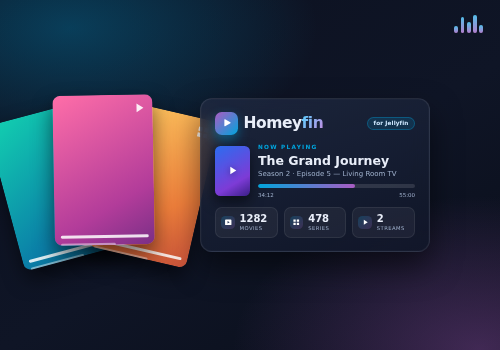
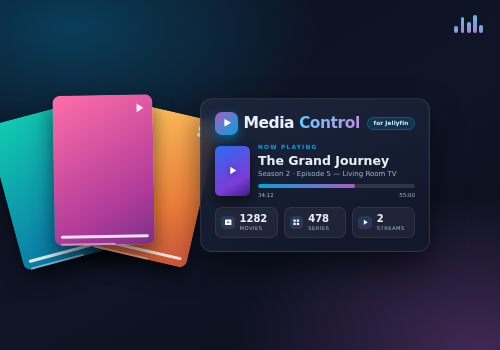
Rename app to "Media Control for Jellyfin"
- App name "Homeyfin" contained "Homey", which the Homey App Store forbids
  in app names. Renamed to "Media Control for Jellyfin" (de:
  "Mediensteuerung für Jellyfin").
- The "… for Jellyfin" affix is explicitly permitted by Jellyfin's branding
  guidelines for unofficial third-party apps; the app already ships its own
  logo (not the Jellyfin logo) and an unofficial disclaimer, and no longer
  uses a "homey"-containing id.
- App id changed to com.frlrnzn.mediacontrol (removes "homey"); package name
  updated to match. Safe to change while still in development / unpublished.
- Hero store image wordmark and README.txt updated to the new name.

Build (tsc) and the test suite pass.

Claude-Session: https://claude.ai/code/session_01De5EX5SXA9xkDUCZHhDnE1

Changed region(s): [[0.48, 0.3143, 0.72, 0.3714]]

diff --git a/scripts/design/app-image.html b/scripts/design/app-image.html
@@ -149,7 +149,7 @@
     <div class="panel">
       <div class="brandline">
         <div class="mark"><svg viewBox="0 0 24 24"><path d="M7 5.5v13a1 1 0 0 0 1.5.87l11-6.5a1 1 0 0 0 0-1.74l-11-6.5A1 1 0 0 0 7 5.5Z"/></svg></div>
-        <div class="wordmark">Homey<b>fin</b></div>
+        <div class="wordmark">Media <b>Control</b></div>
         <div class="tag">for Jellyfin</div>
       </div>
 

diff --git a/CHANGELOG.md b/CHANGELOG.md
@@ -5,6 +5,14 @@ follows Keep a Changelog; dates are not pinned while pre-1.0.
 
 ## [Unreleased]
 
+### Changed (app name & id)
+- Renamed the app to **"Media Control for Jellyfin"** (id
+  `com.frlrnzn.mediacontrol`). Homey forbids "Homey" in the app name, and the
+  "… for Jellyfin" affix is the form Jellyfin's own branding guidelines
+  explicitly permit for unofficial third-party apps (own logo, no
+  `org.jellyfin` namespace, unofficial disclaimer — all satisfied). The hero
+  wordmark and store texts were updated to match.
+
 ### Added / Changed (visuals)
 - **Capability icons**: every custom capability now ships a monochrome
   single-path icon (`assets/capabilities/*.svg`) referenced via `icon`.
